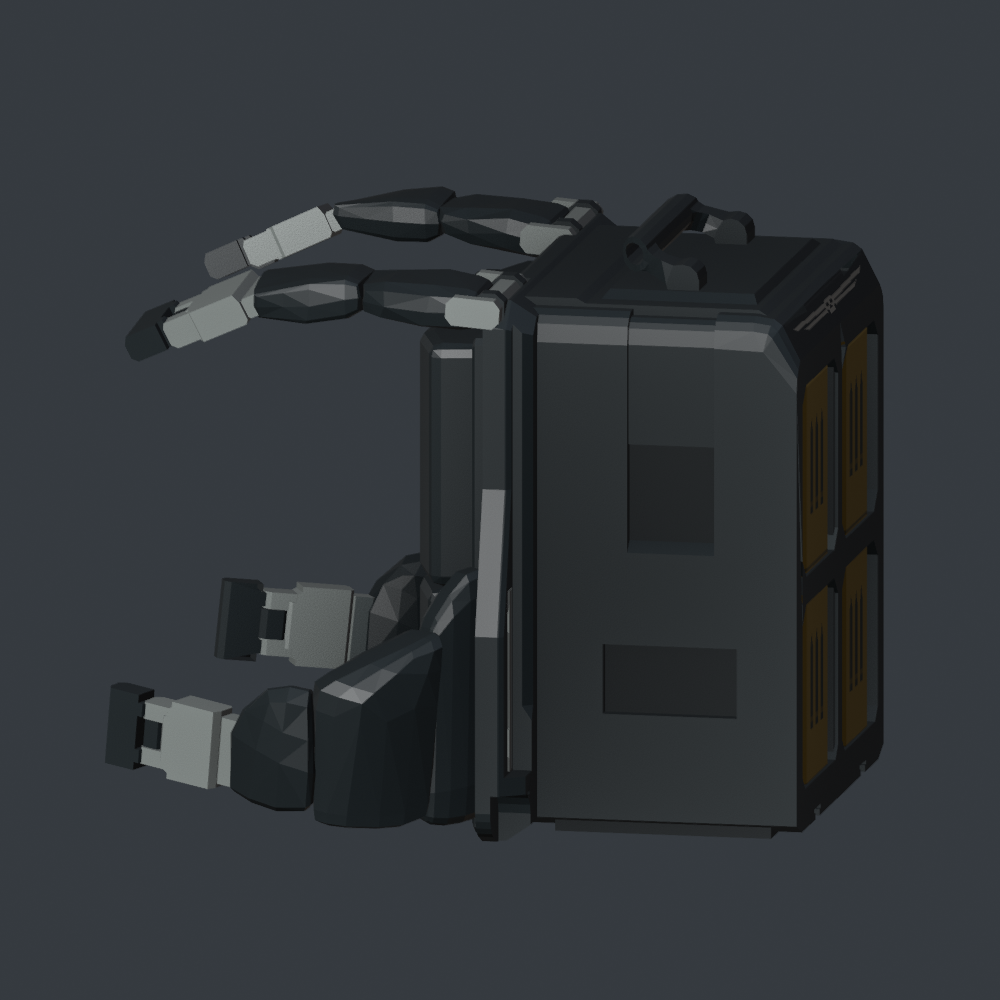
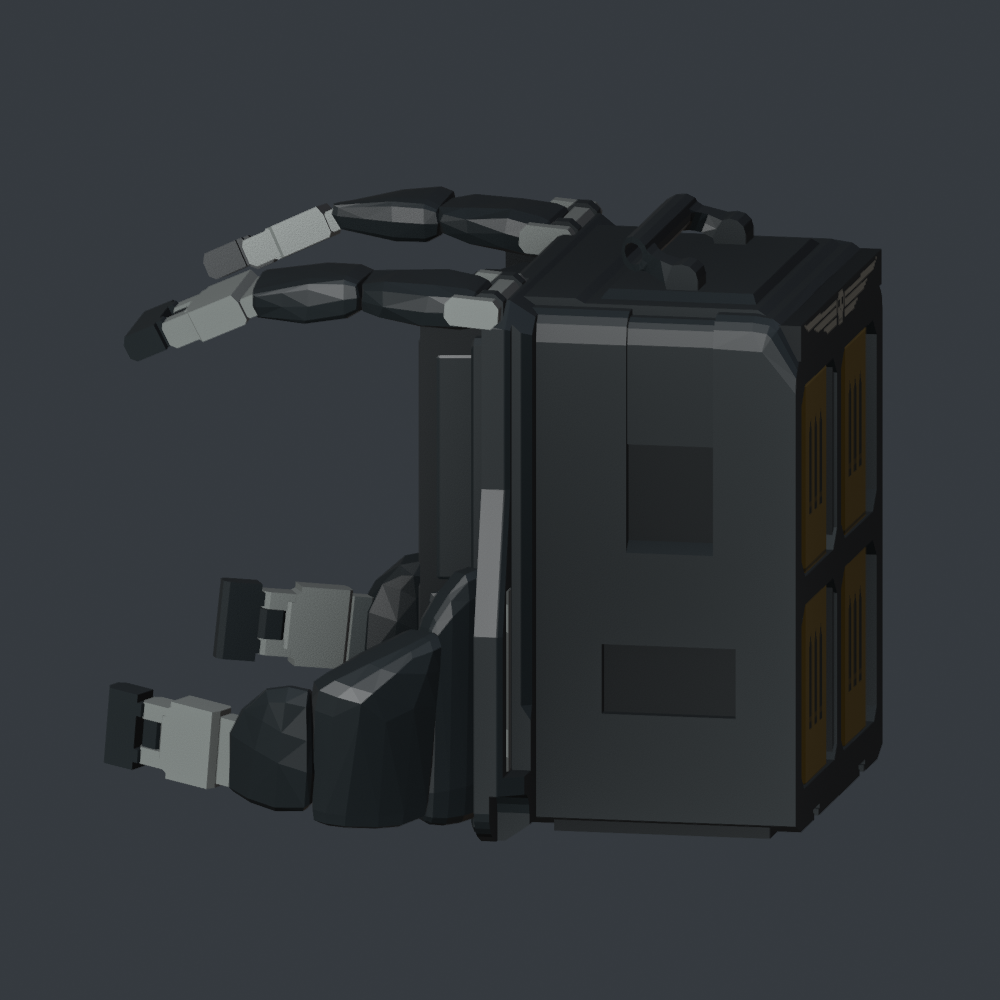
Fix supply pack shell gaps and correct symmetric skull fascia

diff --git a/art/models/补给背包/说明.md b/art/models/补给背包/说明.md
@@ -1,9 +1,11 @@
 # 补给背包
 
-四格补给背包，四个补给箱独立分组，可分别隐藏；背板、背带、框架与提手分组保留。
+四格补给背包，四个补给箱独立分组；保留背带、背板、提手、扣具与原型轮廓。
 
-采用现有护卫犬背包的干净材质配色；四箱比例、框架、背带和扣具参考已解包的补给背包。贴图为重新整理绘制的单张 256×256 图集，弹药与顶部标识重新绘制。
+使用现有护卫犬背包的干净材质配色，图集为重新整理绘制的 256×256 PNG。补给箱弹药标识和顶部翼骷髅标识均重新绘制。骷髅及双翼左右对称，铭牌采用按实际宽高匹配的平面映射。
 
-优化共面切分，保留轮廓、倒角与结构件。原四箱主体 5,420 个三角面，当前 3582 个编辑面、折算 4896 个三角面。编辑面数与三角面数分别统计，避免夸大性能收益。
+修正合并四边面在 Blockbench 中产生的三角缺口；顶部铭牌、中央上部竖梁和两侧背板连接处使用封闭结构。已生成满箱、空箱、正反面、侧面和局部放大预览。
 
-框架增加封闭内衬、中央竖梁与下沿封口；已检查满箱及空箱正面、背面和侧面预览。当前是模型交付，尚未接入游戏。
+原始四箱主体 5,420 个三角面；当前 4902 个编辑面，折算 4944 个三角面。只减少冗余切分，保留外形、箱体倒角和扣具结构。
+
+当前为模型交付，尚未接入游戏。原始解包资源另存本地参考目录。
